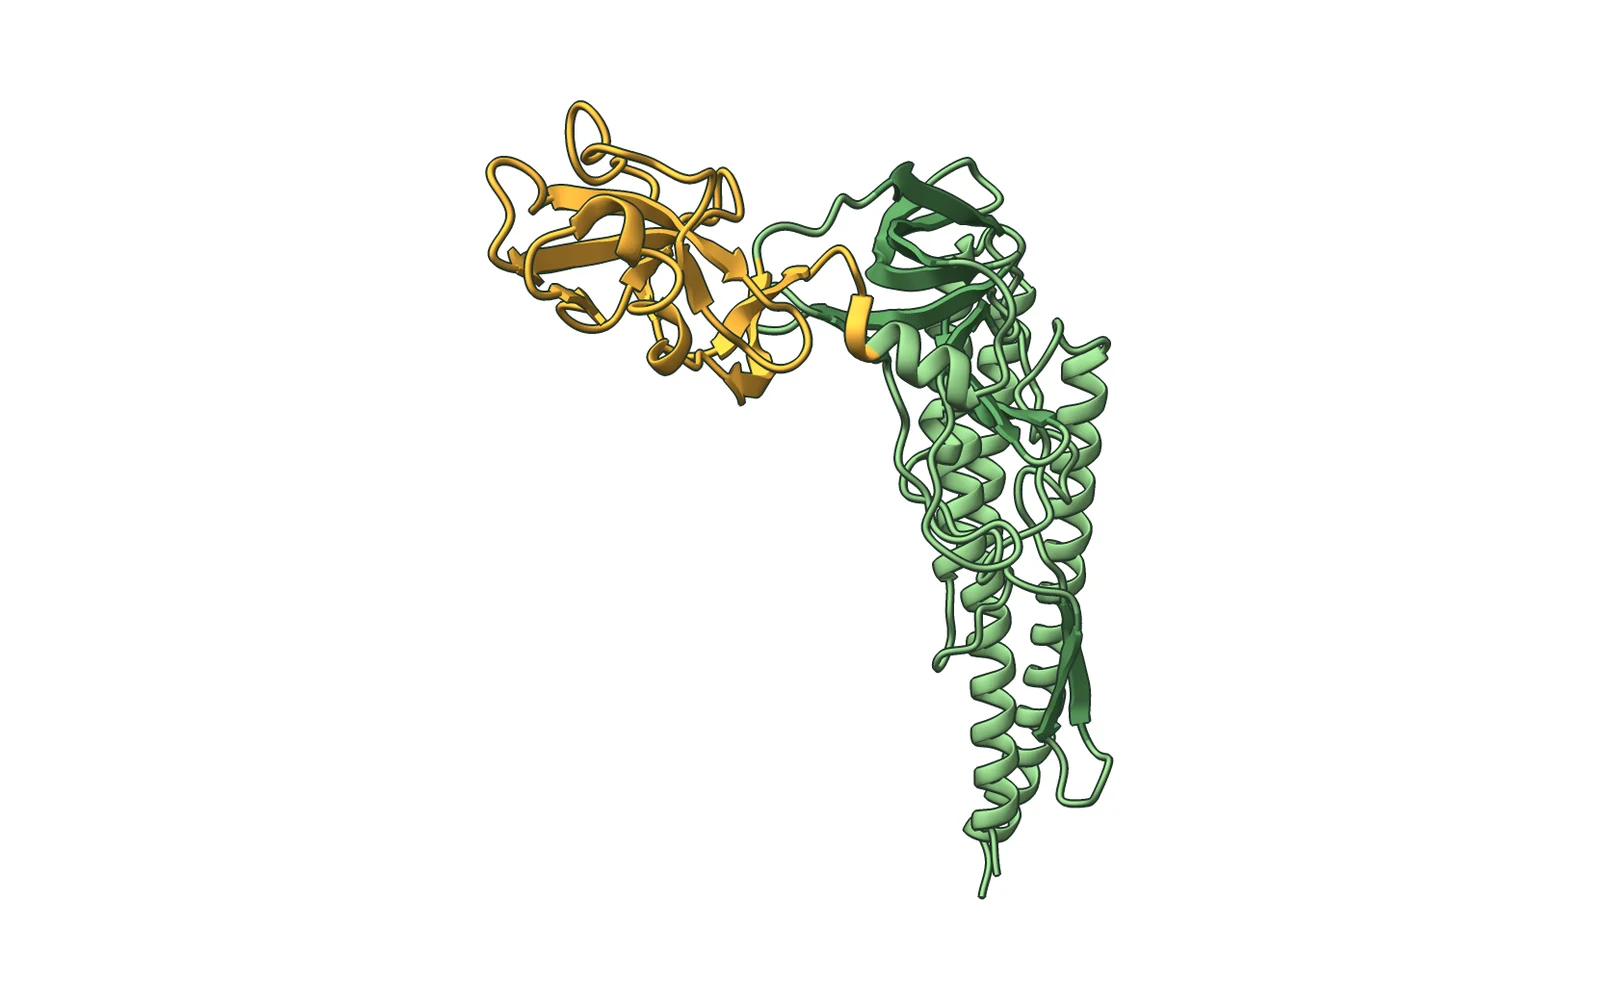
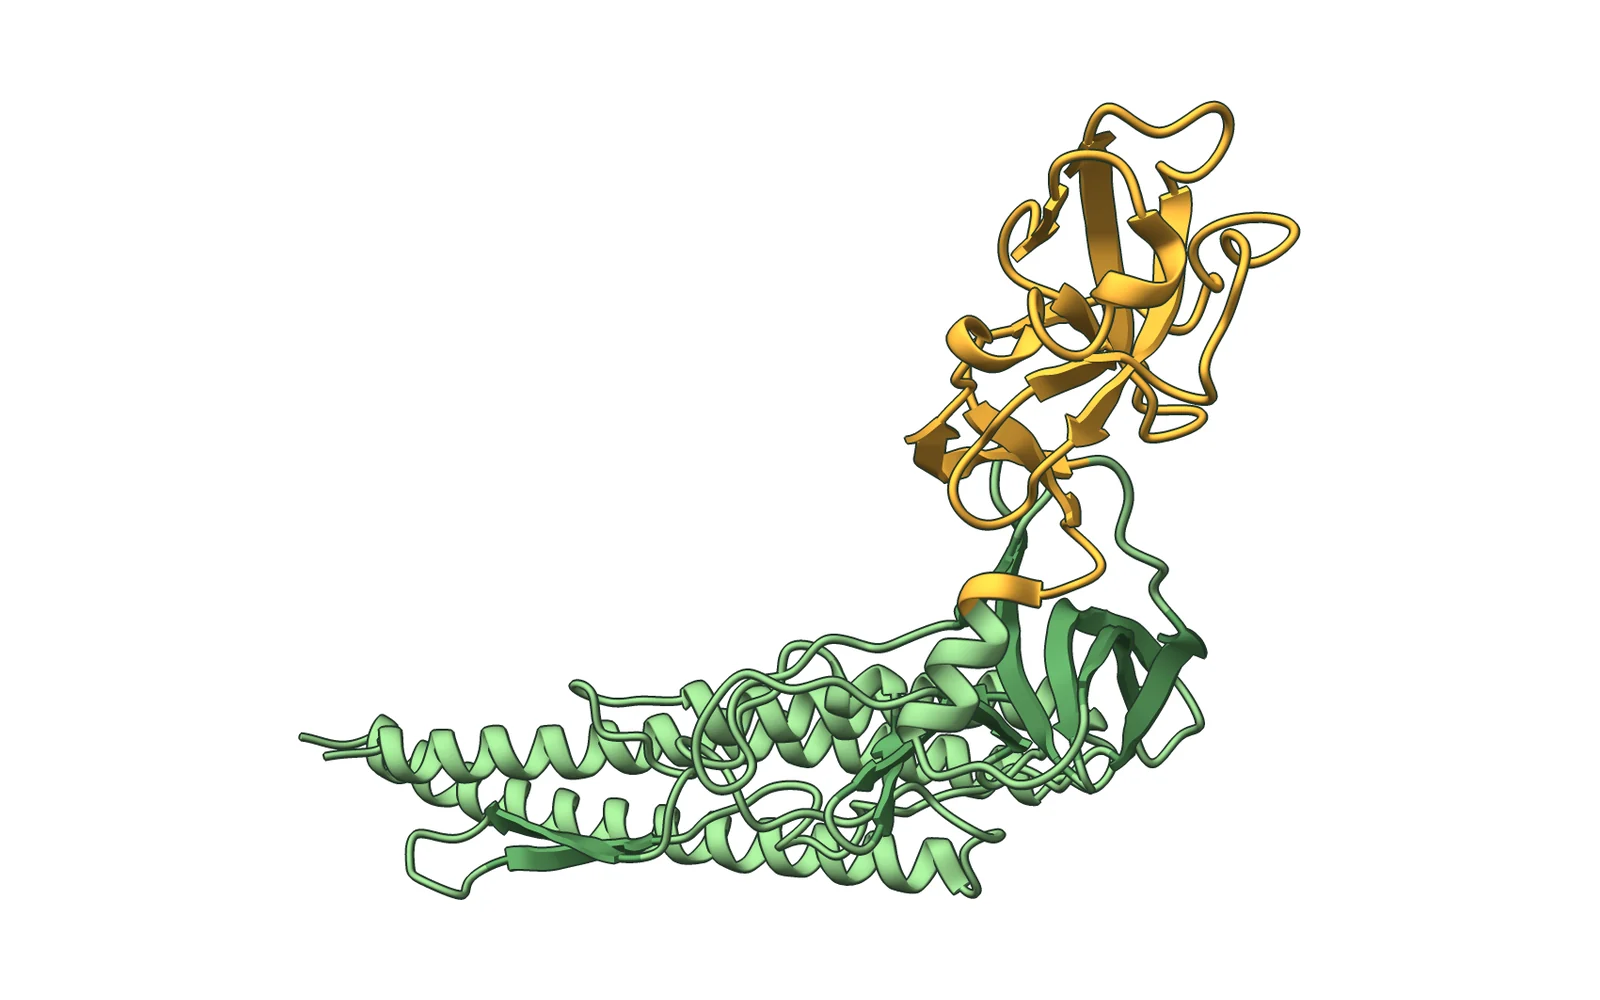
Flagellin: horizontal view that fills the canvas

Changed region(s): [[0.1875, 0.093, 0.8125, 0.899]]

diff --git a/scripts/render.py b/scripts/render.py
@@ -52,7 +52,7 @@ FIGURES = {
         'colour': [f'color #1 {GREEN} target c', f'color #1 & strand {GREEN_DARK} target c',
                    f'color #1 & :190-290 {AMBER} target c'],
         'ligand': None,
-        'turns': ['turn z 90'],
+        'turns': [],
     },
     # ATG12-ATG5-ATG16N, the complex that attaches ATG8 to membranes.
     'atg16': {
